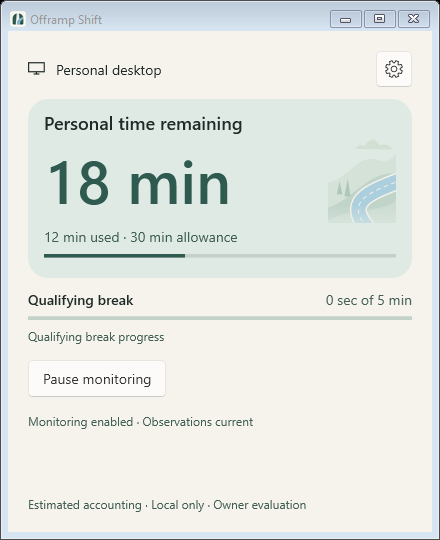
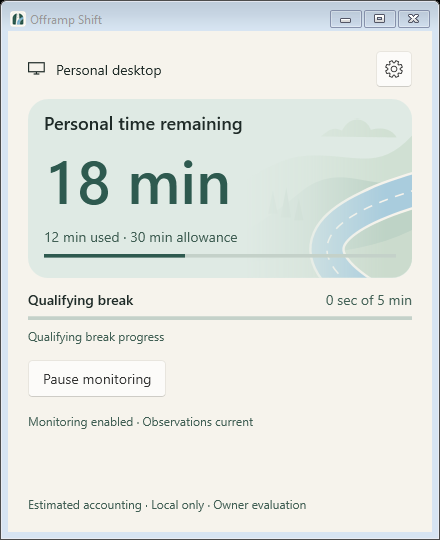
Integrate a larger scenic background into the Home hero

Changed region(s): [[0.7386, 0.3259, 0.9455, 0.5333]]

diff --git a/src/OfframpShift.App/MainWindow.xaml b/src/OfframpShift.App/MainWindow.xaml
@@ -43,26 +43,27 @@
   <Button x:Name="BackButton" Content="← Back" Click="GoBack" HorizontalAlignment="Left" Visibility="Collapsed" Margin="0,0,0,16" AutomationProperties.Name="Back to Home"/>
   <ScrollViewer x:Name="HomePage" Style="{StaticResource ContentScroll}" Grid.Row="1" VerticalScrollBarVisibility="Auto" HorizontalScrollBarVisibility="Disabled">
    <StackPanel MaxWidth="520" HorizontalAlignment="Stretch">
-    <Border x:Name="TimerHero" Background="{DynamicResource ShiftHero}" CornerRadius="20" Padding="16,12" Margin="0,0,0,12"><StackPanel>
-    <TextBlock Text="{Binding HeroLabel}" FontSize="18" FontWeight="SemiBold" Margin="0,0,0,4"/>
-    <Grid>
-     <Grid.ColumnDefinitions><ColumnDefinition Width="*"/><ColumnDefinition Width="Auto"/></Grid.ColumnDefinitions>
-     <local:QuietRoad x:Name="HeroRoad" Grid.Column="1" Width="68" Height="84" Margin="8,0,0,0"/>
-     <TextBlock x:Name="HeroTimer" Text="{Binding HeroValue}" FontSize="60" FontWeight="SemiBold" Foreground="{DynamicResource ShiftAccent}" Typography.NumeralAlignment="Tabular"/>
-    </Grid>
-    <TextBlock Text="{Binding RecordedQualifier}" Style="{StaticResource RecordedText}"/>
-    <TextBlock Text="{Binding Arithmetic}" Foreground="{DynamicResource ShiftSupporting}" Margin="0,4,0,8"/>
-    <TextBlock Text="The allowance remains exhausted until a qualifying break or explicit Reset usage." Visibility="{Binding ShowExhaustionExplanation, Converter={StaticResource BooleanToVisibility}}" Margin="0,0,0,12"/>
-    <ProgressBar Style="{StaticResource ThinProgress}" Visibility="{Binding ShowUsageProgress, Converter={StaticResource BooleanToVisibility}}" Value="{Binding UsageProgress, Mode=OneWay}" Maximum="100" Height="4" Foreground="{DynamicResource ShiftAccent}" Background="{DynamicResource ShiftTrack}" AutomationProperties.Name="Recorded allowance usage" AutomationProperties.HelpText="{Binding Arithmetic}" Margin="0,0,0,8"/>
-    <StackPanel Visibility="{Binding ShowReminder, Converter={StaticResource BooleanToVisibility}}" Margin="0,0,0,8">
-     <WrapPanel>
-      <TextBlock Text="{Binding ReminderLabel}" VerticalAlignment="Center"/>
-      <TextBlock Text="{Binding ReminderValue}" FontSize="18" FontWeight="SemiBold" Foreground="{DynamicResource ShiftAccent}" Margin="12,0,0,0"/>
-     </WrapPanel>
-     <TextBlock Text="{Binding RecordedQualifier}" Style="{StaticResource RecordedText}"/>
-     <TextBlock Text="Advances only during eligible Personal time" FontSize="12" Foreground="{DynamicResource ShiftSupporting}" Margin="0,4,0,0"/>
-    </StackPanel>
-    </StackPanel></Border>
+    <Border x:Name="TimerHero" Background="{DynamicResource ShiftHero}" CornerRadius="20" Margin="0,0,0,12">
+     <Grid>
+      <local:QuietRoad x:Name="HeroRoad" HomeBackground="True"/>
+      <StackPanel x:Name="HeroContent" Margin="16,12">
+       <TextBlock Background="{DynamicResource ShiftHero}" HorizontalAlignment="Left" Text="{Binding HeroLabel}" FontSize="18" FontWeight="SemiBold" Margin="0,0,0,4"/>
+       <TextBlock x:Name="HeroTimer" Text="{Binding HeroValue}" FontSize="60" MinHeight="84" FontWeight="SemiBold" Foreground="{DynamicResource ShiftAccent}" Background="{DynamicResource ShiftHero}" HorizontalAlignment="Left" Typography.NumeralAlignment="Tabular"/>
+       <TextBlock Background="{DynamicResource ShiftHero}" HorizontalAlignment="Left" Text="{Binding RecordedQualifier}" Style="{StaticResource RecordedText}"/>
+       <TextBlock Background="{DynamicResource ShiftHero}" HorizontalAlignment="Left" Text="{Binding Arithmetic}" Foreground="{DynamicResource ShiftSupporting}" Margin="0,4,0,8"/>
+       <TextBlock Background="{DynamicResource ShiftHero}" HorizontalAlignment="Left" Text="The allowance remains exhausted until a qualifying break or explicit Reset usage." Visibility="{Binding ShowExhaustionExplanation, Converter={StaticResource BooleanToVisibility}}" Margin="0,0,0,12"/>
+       <ProgressBar Style="{StaticResource ThinProgress}" Visibility="{Binding ShowUsageProgress, Converter={StaticResource BooleanToVisibility}}" Value="{Binding UsageProgress, Mode=OneWay}" Maximum="100" Height="4" Foreground="{DynamicResource ShiftAccent}" Background="{DynamicResource ShiftTrack}" AutomationProperties.Name="Recorded allowance usage" AutomationProperties.HelpText="{Binding Arithmetic}" Margin="0,0,0,8"/>
+       <StackPanel Visibility="{Binding ShowReminder, Converter={StaticResource BooleanToVisibility}}" Margin="0,0,0,8">
+        <WrapPanel>
+         <TextBlock Background="{DynamicResource ShiftHero}" HorizontalAlignment="Left" Text="{Binding ReminderLabel}" VerticalAlignment="Center"/>
+         <TextBlock Background="{DynamicResource ShiftHero}" HorizontalAlignment="Left" Text="{Binding ReminderValue}" FontSize="18" FontWeight="SemiBold" Foreground="{DynamicResource ShiftAccent}" Margin="12,0,0,0"/>
+        </WrapPanel>
+        <TextBlock Background="{DynamicResource ShiftHero}" HorizontalAlignment="Left" Text="{Binding RecordedQualifier}" Style="{StaticResource RecordedText}"/>
+        <TextBlock Background="{DynamicResource ShiftHero}" HorizontalAlignment="Left" Text="Advances only during eligible Personal time" FontSize="12" Foreground="{DynamicResource ShiftSupporting}" Margin="0,4,0,0"/>
+       </StackPanel>
+      </StackPanel>
+     </Grid>
+    </Border>
 
     <DockPanel Margin="0,0,0,8">
      <TextBlock DockPanel.Dock="Right" Text="{Binding BreakValue}" Foreground="{DynamicResource ShiftSupporting}" Margin="12,0,0,0"/>

diff --git a/src/OfframpShift.App/QuietRoad.cs b/src/OfframpShift.App/QuietRoad.cs
@@ -8,22 +8,78 @@ namespace OfframpShift.App;
 public sealed class QuietRoad : FrameworkElement
 {
     private static readonly DrawingGroup light = Create(false), dark = Create(true);
+    private static readonly DrawingGroup homeLight = CreateHome(false), homeDark = CreateHome(true);
     private static readonly Brush fade = CreateFade();
+    private static readonly Brush homeFade = CreateHomeFade();
     private DrawingGroup scene = light;
+    private bool isDark, homeBackground;
+    public bool HomeBackground
+    {
+        get => homeBackground;
+        set
+        {
+            homeBackground = value;
+            scene = value ? isDark ? homeDark : homeLight : isDark ? dark : light;
+            OpacityMask = value ? homeFade : fade;
+            InvalidateVisual();
+        }
+    }
     public QuietRoad() { Focusable = false; IsHitTestVisible = false; ClipToBounds = true; OpacityMask = fade; }
     internal void ApplyTheme(bool isDark, bool highContrast)
     {
+        this.isDark = isDark;
         Visibility = highContrast ? Visibility.Collapsed : Visibility.Visible;
-        var next = isDark ? dark : light;
+        var next = HomeBackground ? isDark ? homeDark : homeLight : isDark ? dark : light;
         if (ReferenceEquals(scene, next)) return;
         scene = next; InvalidateVisual();
     }
     protected override void OnRender(DrawingContext context)
     {
         base.OnRender(context);
-        context.PushTransform(new ScaleTransform(ActualWidth / 100, ActualHeight / 120));
+        // Home uses uniform width scaling, bottom anchored within the card. Its
+        // height is owned by content, never by the illustration's desired size.
+        var scale = ActualWidth / 400;
+        if (HomeBackground) context.PushTransform(new TranslateTransform(0, ActualHeight - 180 * scale));
+        context.PushTransform(HomeBackground ? new ScaleTransform(scale, scale) : new ScaleTransform(ActualWidth / 100, ActualHeight / 120));
         context.DrawDrawing(scene);
         context.Pop();
+        if (HomeBackground) context.Pop();
+    }
+    protected override void OnRenderSizeChanged(SizeChangedInfo sizeInfo)
+    {
+        base.OnRenderSizeChanged(sizeInfo);
+        if (!HomeBackground) return;
+        // Border's CornerRadius does not clip children. Match its outer curve;
+        // only layout-size changes replace this small frozen clip, not snapshots.
+        var clip = new RectangleGeometry(new Rect(sizeInfo.NewSize), 20, 20);
+        clip.Freeze(); Clip = clip;
+    }
+    private static Brush CreateHomeFade()
+    {
+        var brush = new LinearGradientBrush { StartPoint = new(0, 0), EndPoint = new(1, 0) };
+        brush.GradientStops = new GradientStopCollection
+        { new(Colors.Transparent, 0), new(Colors.Transparent, 0.34), new(Color.FromArgb(75, 255, 255, 255), 0.55), new(Colors.White, 0.83) };
+        brush.Freeze(); return brush;
+    }
+    private static DrawingGroup CreateHome(bool isDark)
+    {
+        Brush Color(string value) => new SolidColorBrush((System.Windows.Media.Color)ColorConverter.ConvertFromString(value));
+        var drawing = new DrawingGroup();
+        using (var context = drawing.Open())
+        {
+            void Shape(string path, string color) => context.DrawGeometry(Color(color), null, Geometry.Parse(path));
+            Shape("M 125,130 C 200,106 244,55 290,53 C 340,50 364,71 400,32 L 400,180 L 125,180 Z", isDark ? "#2D4B40" : "#D0E0D3");
+            Shape("M 140,167 C 219,139 247,121 283,91 C 328,54 361,97 400,74 L 400,180 L 140,180 Z", isDark ? "#36564A" : "#BED3C6");
+            Shape("M 175,180 C 249,148 327,166 400,130 L 400,180 Z", isDark ? "#29463C" : "#CBDBCD");
+            var road = Geometry.Parse("M 350,197 C 274,148 317,112 418,84");
+            context.DrawGeometry(null, new Pen(Color(isDark ? "#6D9298" : "#F6F3EC"), 37), road);
+            context.DrawGeometry(null, new Pen(Color(isDark ? "#406574" : "#A9CCDD"), 32), road);
+            context.DrawGeometry(null, new Pen(Color(isDark ? "#88ACB4" : "#F6F3EC"), 1.6)
+            { DashStyle = new DashStyle([5, 6], 0), StartLineCap = PenLineCap.Round, EndLineCap = PenLineCap.Round }, road);
+            Shape("M 250,113 L 255,89 L 260,113 Z M 263,117 L 269,86 L 274,117 Z M 277,120 L 282,97 L 287,120 Z", isDark ? "#486858" : "#AFC7B8");
+            Shape("M 305,33 C 316,23 321,24 327,27 C 335,10 353,13 357,26 C 371,22 380,27 384,34 Z", isDark ? "#345448" : "#D1E0D3");
+        }
+        drawing.Freeze(); return drawing;
     }
     private static Brush CreateFade()
     {

diff --git a/tests/OfframpShift.App.Tests/VisualPolishRegressions.cs b/tests/OfframpShift.App.Tests/VisualPolishRegressions.cs
@@ -11,6 +11,24 @@ internal static class VisualPolishRegressions
     internal static void Run(Action<string, Action> test, Func<HostSnapshot> snapshot)
     {
         void Check(bool value) { if (!value) throw new InvalidOperationException("Visual polish assertion failed."); }
+        test("Home scene fills and clips the existing hero without owning its height or reminder composition", () =>
+        {
+            var main = new MainWindow(_ => Task.FromResult(HostCommandResult.Success()), () => Task.CompletedTask, () => Task.CompletedTask);
+            main.Apply(snapshot()); main.ApplyBrand(false, false);
+            var root = (FrameworkElement)main.Content;
+            foreach (var width in new[] { 320d, 360, 480 })
+            {
+                root.Measure(new(width, 440)); root.Arrange(new(0, 0, width, 440)); root.UpdateLayout();
+                Check(main.HeroRoad.HomeBackground && main.HeroRoad.ActualWidth > 240);
+                Check(Math.Abs(main.HeroRoad.ActualWidth - main.TimerHero.ActualWidth) < 0.5);
+                Check(main.HeroRoad.ActualHeight < 200 && Math.Abs(main.HeroRoad.ActualHeight - main.TimerHero.ActualHeight) < 0.5);
+                Check(main.HeroRoad.Clip is RectangleGeometry { IsFrozen: true, RadiusX: 20, RadiusY: 20 } clip && clip.Rect.Size == main.HeroRoad.RenderSize);
+                Check(ReferenceEquals(main.HeroTimer.Background, main.Resources["ShiftHero"]));
+            }
+            var reminder = new NudgeWindow(_ => Task.FromResult(HostCommandResult.Success()));
+            Check(!reminder.ReminderRoad.HomeBackground && reminder.ReminderRoad.Width == 48 && reminder.ReminderRoad.Height == 60);
+            reminder.CloseAutomatically();
+        });
         test("scenic hero retains authoritative labels values and qualifiers across operational states", () =>
         {
             var main = new MainWindow(_ => Task.FromResult(HostCommandResult.Success()), () => Task.CompletedTask, () => Task.CompletedTask);

diff --git a/docs/validation/pr-c-visual-polish.md b/docs/validation/pr-c-visual-polish.md
@@ -20,11 +20,17 @@ Very long timer values wrap and scroll rather than clip or shrink the whole UI.
 
 Light mode uses Warm Paper `#F6F3EC`, sage `#DFEAE4`, Moss `#2E5A4F`, and a
 muted Sky-derived roadway. Dark mode uses Pine and a darker moss hero.
-QuietRoad uses two shared frozen WPF drawings, static landscape/road geometry,
-and a frozen fade mask. Theme changes select a drawing; snapshots do not rebuild
-it or run a decorative clock. Artwork occupies a separate column beside the
-timer/heading, so important text and controls never sit on the detailed scene.
-This deliberately adapts the mobile reference to the compact desktop layout.
+QuietRoad uses shared frozen light/dark WPF drawings and fade masks, with distinct
+Home-background and small-reminder compositions. Theme changes select a drawing;
+snapshots do not rebuild it or run a decorative clock. Home's scene is a background
+layer covering the card; the reminder keeps its original small illustration.
+Home hills extend across roughly the right 60–65%, fading toward the text-heavy
+left. The recognizable road curves in from the lower-right and stays on the right;
+opaque text backings protect every timer/qualifier/explanation from road detail,
+including unusually long values and wrapped labels. A frozen rounded clip matches
+the 20-DIP card corners. The background contributes no desired height, and uniform
+width scaling preserves its proportions as the card resizes. It is bottom anchored;
+wide/shallow layouts can crop the upper scenery instead of stretching it.
 The scene has no input hit-testing, focus or automation peer. Contrast fallback
 hides it and uses system brushes. The canonical logo assets remain unchanged.
 
@@ -70,7 +76,7 @@ below count as passing evidence.
 
 | Required check | Result |
 |---|---|
-| `./run.ps1 test` | PASS — Core 82 / 40,598 assertions; Persistence 84 / 778; Host 300 / 3,039; WPF 100 / 195; zero failures |
+| `./run.ps1 test` | PASS — Core 82 / 40,598 assertions; Persistence 84 / 778; Host 300 / 3,039; WPF 102 / 195; zero failures |
 | `./run.ps1 format` | PASS — warnings-as-errors builds and verify-no-changes |
 | `./spikes/VirtualDesktop/run.ps1 test` | PASS — fake policy and owned non-COM worker isolation |
 | `./spikes/BrowserAttribution/run.ps1 test` | PASS — synthetic and process/transport evidence |
@@ -86,15 +92,13 @@ and hero), switch visibility, callback wiring, navigation during pending extra
 time, retained reminder identity and no navigation command/replay. These are
 synthetic tests, not live accounting or shell validation.
 
-After the full checks, an additional actual-hero-binding regression was added
-for the operational-state matrix. The focused WPF rebuild, **101 tests / 195
-counted assertions, zero failures**, and verify-no-changes format check passed.
-Presentation helper assertions throw directly rather than incrementing Program's
-legacy assertion counter. The native capture run passed its then-current 100
-tests and captured **62 images per monitor**; application visuals did not change
-after those captures.
+The initial PR C revision `852a7f87124d3325bb531da556396baadf66e3f2` passed 101
+focused WPF tests. The enlargement follow-up adds a layout regression for full-card
+background sizing, height independence at several widths, frozen rounded clipping,
+text backings and the unchanged 48 × 60 DIP reminder scene. Presentation helper
+assertions throw directly rather than incrementing Program's legacy assertion counter.
 
-The Impeccable mechanical detector returned `[]` on the changed XAML; its source
+The initial PR C Impeccable mechanical detector returned `[]` on XAML; its source
 coverage does not establish WPF layout or accessibility correctness.
 
 ## Native WPF layout evidence
@@ -121,10 +125,30 @@ scrollbar with the prior extent. The inspection now explicitly remeasures the
 final extent before clearance assertions. Reduced hero vertical padding also
 keeps the common states compact. Production receives no polling/layout retry.
 
-Compared with the supplied Fade light reference and existing PR A captures, the
-result preserves warm paper, soft sage grouping and moss typography; the small
-road remains secondary. The reminder shares those roles without copying mobile
-dimensions. Settings remains familiar and technical content stays disclosed.
+Compared with the supplied Fade light reference and the original PR C captures,
+Home now has a continuous landscape and a substantially larger winding road,
+instead of a 68 × 84 DIP image beside the timer. Paper/sage/Moss roles and the
+dominant 60-DIP timer remain. Normal-state hero height and window dimensions are
+unchanged. The reminder, Settings, their content and all transactions are unchanged
+by this follow-up. Actual contrast-theme and screen-reader checks remain NOT RUN.
+
+### Enlargement follow-up on PR #25
+
+The owner requested this composition-only update on `codex/pr-c-visual-polish`.
+Changes are limited to QuietRoad's static Home composition, the Home hero layering,
+focused regression coverage and this validation/screenshot record. The original
+reminder drawing, fade, dimensions and behavior remain intact. No new PR is created.
+
+The first enlarged native pass completed on both displays with 101 existing tests
+and 62 captures per display. It showed continuous hills, a recognizable road,
+clear text, rounded clipping, unchanged common-state height and scrollable degraded
+states. No additional visual changes followed that review. The final pass passed
+**102 WPF tests**, including the new composition regression, and again produced
+**62 captures per display** at 144 and 96 DPI. All seven repository checks passed
+for this follow-up; results are in the table above. At 150%, normal Home content
+height remains **329.72 DIP** before and after enlargement; exhausted/extra-time
+content remains **369.62 DIP** within a **386.71 DIP** viewport. The enlarged
+scene creates no additional scroll range in common healthy states.
 
 ### Captures
 
@@ -150,9 +174,16 @@ The following are 150% captures unless labeled 100%:
 |---|---|
 | ![Home at 100%](images/pr-c/light-normal-100.png) | ![Reminder at 100%](images/pr-c/light-reminder-100.png) |
 
+[Previous PR C Home at 100%](images/pr-c/light-normal-before-enlargement-100.png)
+preserves the original small-scene capture for direct comparison.
+
+[Unavailable observations with retained visible values](images/pr-c/light-unavailable.png)
+is a fresh synthetic host snapshot with unavailable observations; it is distinct
+from the stale-publication capture above.
+
 [Constrained reminder with synthetic errors](images/pr-c/light-reminder-constrained.png)
 shows the scrollable overflow treatment. The full local capture matrix and layout
-logs remain ignored under `artifacts/prc-captures-verified/`.
+logs for the enlargement remain ignored under `artifacts/prc-large-final/`.
 
 ## Focused owner checklist — NOT RUN
 
